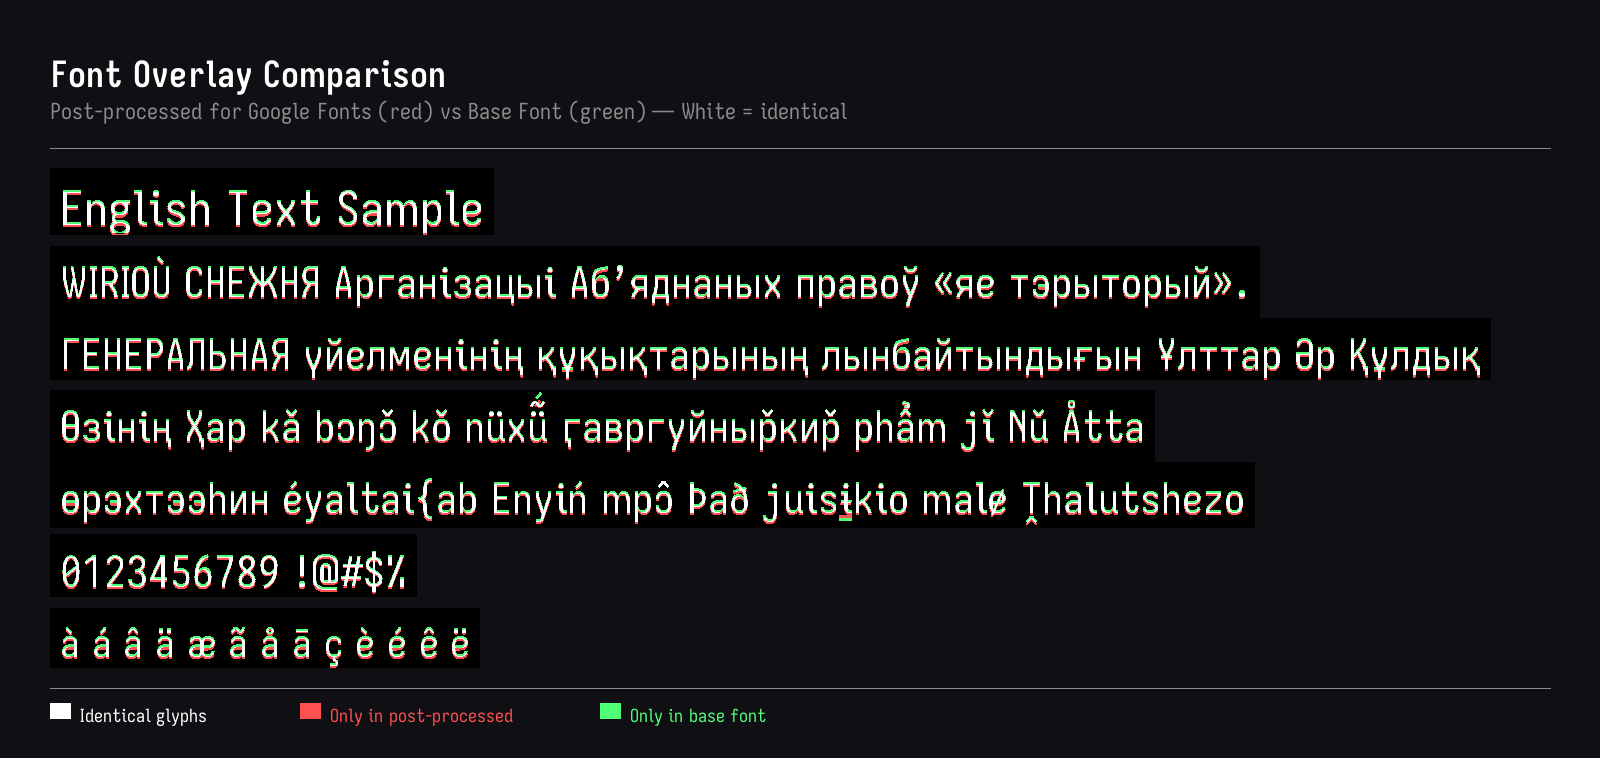
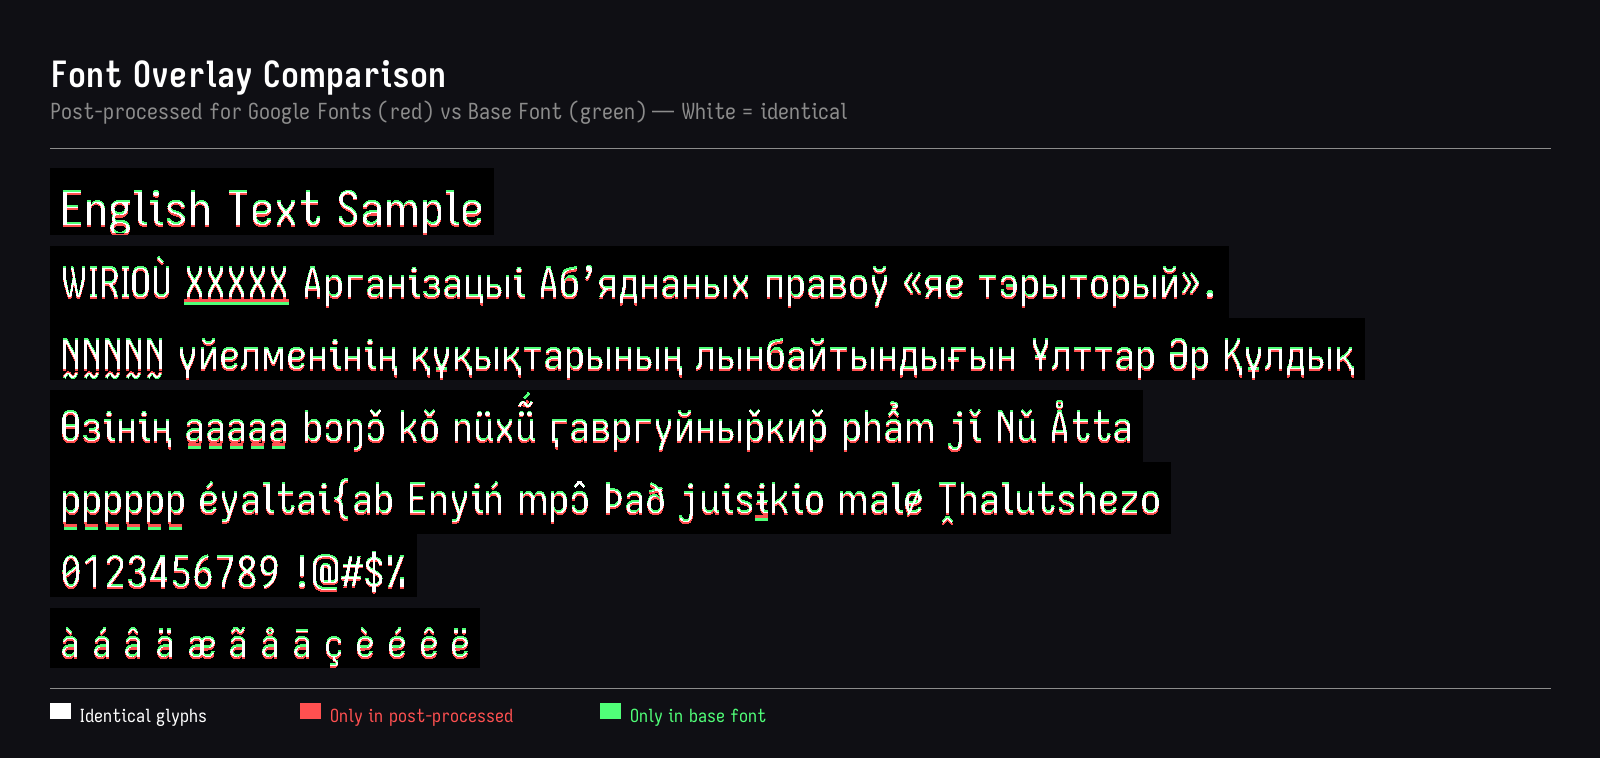
update font comparison

Changed region(s): [[0.0312, 0.3338, 0.9375, 0.5158], [0.0312, 0.6372, 0.7812, 0.6979], [0.0938, 0.5158, 0.7188, 0.6069]]

diff --git a/documentation/font-comparison.py b/documentation/font-comparison.py
@@ -23,10 +23,10 @@ YELLOW = (255, 255, 100)  # Differences
 
 test_samples = [
     ("English Text Sample", 48),
-    ("WIRIOÙ СНЕЖНЯ Арганізацыі Абʼяднаных правоў «яе тэрыторый».", 42),
-    ("ГЕНЕРАЛЬНАЯ үйелменінің құқықтарының лынбайтындығын Ұлттар Әр Құлдық", 42),
-    ("Өзінің Ҳар kǎ bɔŋɔ̌ kǒ nüxü̃́ ӷавргуйныр̌кир̌ phẩm jǐ Nǔ Åtta", 42),
-    ("өрэхтээһин éyaltai{ab Enyiń mpɔ̂ Það juisɨ̱kio malɇ Ṱhalutshezo", 42),
+    ("ü̃́ü̃́ü̃́ü̃́ü̃́ü̃́ X̲X̲X̲X̲X̲ Арганізацыі Абʼяднаных правоў «яе тэрыторый».", 42),
+    ("N̰N̰N̰N̰N̰ үйелменінің құқықтарының лынбайтындығын Ұлттар Әр Құлдық", 42),
+    ("Өзінің a̱a̱a̱a̱a̱ bɔŋɔ̌ kǒ nüxü̃́ ӷавргуйныр̌кир̌ phẩm jǐ Nǔ Åtta", 42),
+    ("p̱p̱p̱p̱p̱p̱ éyaltai{ab Enyiń mpɔ̂ Það juisɨ̱kio malɇ Ṱhalutshezo", 42),
     ("0123456789 !@#$%", 44),
     ("à á â ä æ ã å ā ç è é ê ë", 40),
 ]
